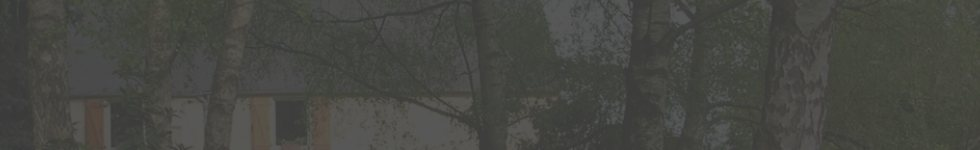
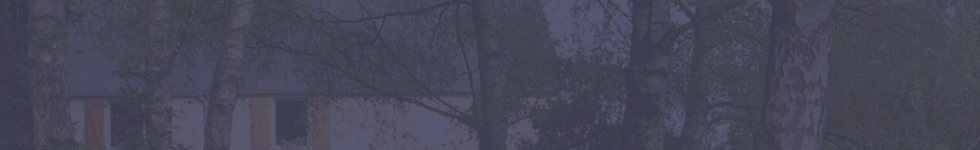
changement des couleurs du site

diff --git a/Symfony2/src/Gaudruere/GiteBundle/Resources/public/css/calendrier.css b/Symfony2/src/Gaudruere/GiteBundle/Resources/public/css/calendrier.css
@@ -27,13 +27,12 @@ border-radius: 10px 10px 0px 0px;
 }
 
 #content .calendrier-content .calendrierTitre {
-background: -moz-linear-gradient(top,#706F6F 28%,#3E3E3E);
-background: -webkit-gradient(linear, left top, left bottom,color-stop(0.28, #706F6F),to(#3E3E3E));
-background: -o-linear-gradient(top, #706F6F 28%, #3E3E3E); /* Opera 11.10+ */
-background: -ms-linear-gradient(top, #706F6F 28%,#3E3E3E); /* IE10+ */
-background: linear-gradient(top, #706F6F 28%, #3E3E3E); /* W3C */
-filter: progid:DXImageTransform.Microsoft.gradient( startColorstr='#706F6F', endColorstr='#3E3E3E',GradientType=0 ); /* IE6-7 + 9 */
--ms-filter: "progid:DXImageTransform.Microsoft.gradient(GradientType=0,startColorstr='#706F6F', endColorstr='#3E3E3E')"; /* IE8 */
+/* Permalink - use to edit and share this gradient: http://colorzilla.com/gradient-editor/#3a5677+4,3a5677+53,15589b+90&1+9,0.8+81 */
+background: -moz-linear-gradient(top, rgba(58,86,119,1) 4%, rgba(58,86,119,1) 9%, rgba(58,86,119,0.88) 53%, rgba(30,88,146,0.8) 81%, rgba(21,88,155,0.8) 90%); /* FF3.6-15 */
+background: -webkit-linear-gradient(top, rgba(58,86,119,1) 4%,rgba(58,86,119,1) 9%,rgba(58,86,119,0.88) 53%,rgba(30,88,146,0.8) 81%,rgba(21,88,155,0.8) 90%); /* Chrome10-25,Safari5.1-6 */
+background: linear-gradient(to bottom, rgba(58,86,119,1) 4%,rgba(58,86,119,1) 9%,rgba(58,86,119,0.88) 53%,rgba(30,88,146,0.8) 81%,rgba(21,88,155,0.8) 90%); /* W3C, IE10+, FF16+, Chrome26+, Opera12+, Safari7+ */
+filter: progid:DXImageTransform.Microsoft.gradient( startColorstr='#3a5677', endColorstr='#cc15589b',GradientType=0 ); /* IE6-9 */
+
 color: white;
 text-align: center;
 height: 26px;
@@ -53,7 +52,7 @@ border-right:1px solid #7890A8;
 /** CalendrierJourSemaine */
 #content .calendrier-content .calendrierSousTitre > * {
 display: inline-block;
-background: #CEC9AB;
+background: #E0E0E0;
 width: 30px;
 height: 20px; 
 text-align: center;
@@ -67,8 +66,7 @@ font-style: normal;
 }
 
 #content .calendrier-content .calendrierJourSemaineWeekEnd {
-background: #E8E8E8;
-color: #575757;
+background: #E0E0E0;
 } 
 
 #content .calendrier-content .calendrierBody {
@@ -93,7 +91,7 @@ user-select: none;
 }
 
 #content .calendrier-content .calendrierJourWeekEnd {
-background: #E5E1C7;
+background: #E8E8E8;
 }
 
 #content .calendrier-content .calendrierJourNonReserve {
@@ -157,13 +155,11 @@ border-radius: 0px 0px 10px 10px;
 
 #content .calendrier-content .calendrierFooterInner {
 height:100%;
-background: -moz-linear-gradient(top,#706F6F 28%,#3E3E3E);
-background: -webkit-gradient(linear, left top, left bottom,color-stop(0.28, #706F6F),to(#3E3E3E));
-background: -o-linear-gradient(top, #706F6F 28%, #3E3E3E); /* Opera 11.10+ */
-background: -ms-linear-gradient(top, #706F6F 28%,#3E3E3E); /* IE10+ */
-background: linear-gradient(top, #706F6F 28%, #3E3E3E); /* W3C */
-filter: progid:DXImageTransform.Microsoft.gradient( startColorstr='#706F6F', endColorstr='#3E3E3E',GradientType=0 );  /* IE6-8 + 9 */
--ms-filter: "progid:DXImageTransform.Microsoft.gradient(GradientType=0,startColorstr='#706F6F', endColorstr='#3E3E3E')"; /* IE8 */
+/* Permalink - use to edit and share this gradient: http://colorzilla.com/gradient-editor/#3a5677+4,3a5677+53,15589b+90&1+9,0.8+81 */
+background: -moz-linear-gradient(top, rgba(58,86,119,1) 4%, rgba(58,86,119,1) 9%, rgba(58,86,119,0.88) 53%, rgba(30,88,146,0.8) 81%, rgba(21,88,155,0.8) 90%); /* FF3.6-15 */
+background: -webkit-linear-gradient(top, rgba(58,86,119,1) 4%,rgba(58,86,119,1) 9%,rgba(58,86,119,0.88) 53%,rgba(30,88,146,0.8) 81%,rgba(21,88,155,0.8) 90%); /* Chrome10-25,Safari5.1-6 */
+background: linear-gradient(to bottom, rgba(58,86,119,1) 4%,rgba(58,86,119,1) 9%,rgba(58,86,119,0.88) 53%,rgba(30,88,146,0.8) 81%,rgba(21,88,155,0.8) 90%); /* W3C, IE10+, FF16+, Chrome26+, Opera12+, Safari7+ */
+filter: progid:DXImageTransform.Microsoft.gradient( startColorstr='#3a5677', endColorstr='#cc15589b',GradientType=0 ); /* IE6-9 */
 }
 
 #content .calendrier-content .legende {

diff --git a/Symfony2/src/Gaudruere/GiteBundle/Resources/public/css/gaudruere.css b/Symfony2/src/Gaudruere/GiteBundle/Resources/public/css/gaudruere.css
@@ -4,9 +4,9 @@
 }
 
 body {
-	background: url("bg_body.gif") repeat scroll 0 0 #E0DBBA;
-	color: #777777;
-	font: 14px "Verdana", Helvetica, Arial, sans-serif;
+	background: url("bg_body.gif") repeat scroll 0 0 #DDD;
+	color: #6c6c7f;
+	font: 13px "Verdana", Helvetica, Arial, sans-serif;
 }
 
 /*
@@ -16,7 +16,7 @@ img {
 */
 
 #bandeau {
-	background: url("bg_header.gif") repeat scroll 0 150px transparent;
+	background-color: #3a5677;
 	height: 150px;
 	width: 100%;
 }
@@ -59,7 +59,7 @@ z-index: 1000;
 }
 /* Content */
 #content {  
-background-color: #E5E1C7;    
+background-color: #FAFAFA;    
 width: 980px;
 min-height: 450px;
 }
@@ -69,28 +69,35 @@ background: url("bg_content.png") repeat-y scroll 0 0 transparent;
 min-height: 450px;
 }
 
+.doublepagereservation {
+background: url("bg_content_reservation.png") repeat-y scroll 0 0 transparent;
+min-height: 450px;
+}
 
 /* Bas-de-page */
 #footer {
-background: url("bg_menu.png") repeat scroll 0 0 transparent;
+aabackground: url("bg_menu.png") repeat scroll 0 0 transparent;
+background-color:#3a5677;
 height: 80px;
 width: 978px;
 border: 1px solid #808080;
 }
 #footer #remerciementfooter {
-color: #E5E1C7;
-font-size: 0.9em;
+color: #D0D0D0;
+font-size: 1em;
 margin: 0;
 text-align: center;
 text-decoration: none;
 width:100%;
 float:right;
 display:inline;
+text-align: right;
+margin: 0 21px 0 0;
 }
 #footer #titrefooter {
-color: #E18B14;
+color: #EAEAEA;
 font-size: 2.2em;
-margin: 13px 20px 0 0;
+margin: 9px 16px 0 0;;
 text-align: right;
 text-decoration: none;
 width:75%;
@@ -108,7 +115,7 @@ display:inline;
 }
 #footer #contactfooter a {
 font-size: 1.1em;
-color: #FFFFFF;
-border-bottom:3px solid #FFFFFF; 
+color: #EAEAEA;
+border-bottom:3px solid #EAEAEA;
 text-decoration: none;
 }

diff --git a/Symfony2/src/Gaudruere/GiteBundle/Resources/public/css/article.css b/Symfony2/src/Gaudruere/GiteBundle/Resources/public/css/article.css
@@ -1,12 +1,13 @@
 #content .article-content {
 display: inline-block;
 height: 100%;
-width: 69%;
+width: 77%;
 vertical-align: top;
 }
 #content .article-content h2 {
 border-bottom: 5px solid;
 margin: 10px 0 20px;
+color: #50507f;
 }
 #content .article-content p {
 margin: 0.5em;
@@ -47,25 +48,25 @@ padding-left: 30px;
 display: inline-block;
 height: 100%;
 margin: 0;
-width:30%;
+width:22%;
 vertical-align: top;
 }
 #content .article-navigation ul {
 list-style: none;
 margin:0;
-padding: 20px;
-width: 253px;
+padding: 2px;
+width: 200px;
 }
 #content .article-navigation li {
-margin: 0 5px 10px;   
+margin: 0 10px 0px;
 width: auto;
 position:relative;
 background:transparent; 
 }
 
 #content .article-navigation li a {
-color: #000;
-font-size: 1.1em;
+color: #50507f;
+font-size: 1em;
 font-weight: bold;
 line-height: 2;
 padding: 12px 15px;
@@ -75,9 +76,10 @@ padding: 12px 15px;
 text-decoration: none;
 }
 #content ul li a:hover, #content  ul li a.active:hover  {
-background:#DBD4AF;
+background:#dcdee8;
 }
 #content .doublepage .article-content div {
 clear: both;
 padding-top: 10px;
+padding-bottom: 10px;
 }

diff --git a/Symfony2/src/Gaudruere/GiteBundle/Resources/public/css/reservation.css b/Symfony2/src/Gaudruere/GiteBundle/Resources/public/css/reservation.css
@@ -9,7 +9,7 @@ vertical-align: top;
 font-weight:bold;
 }
 #content .reservation-navigation h2 {
-color: #6B6565;
+color: #50507f;
 font-weight: bold;
 padding: 6px 10px 30px;
 text-align: center;
@@ -28,7 +28,7 @@ vertical-align: -2px;
 
 #content .reservation-navigation .ui-state-default
 {
-	background: #E18B14;
+	background: #6E6E6E;
 }
 
 #content .reservation-navigation .ui-slider .ui-slider-handle
@@ -52,6 +52,7 @@ vertical-align: -2px;
 
 #formResa {
 	padding: 0px 5px 0px;	
+	color: #50507f
 }
 
 .ui-datepicker
@@ -151,7 +152,7 @@ display: inline-block;
 
 #content .reservation-navigation #formResa .ligneBtnReserver
 {
-	margin-left: 72px;
+	margin-left: 0px;
 	text-align: center;
 	margin-top: 20px;
 	margin-bottom: 20px;	
@@ -163,10 +164,11 @@ display: inline-block;
     border-style: solid;
     border-width: 1px;
     cursor: pointer;
-    font-size: 10px;
+    font-size: 13px;
     font-weight: bold;
     padding: 7px;
     width: auto;	
+    color: #50507f;
 }
 
 #content .reservation-navigation #formResa #labelConflitDates

diff --git a/Symfony2/src/Gaudruere/GiteBundle/Resources/public/css/menu.css b/Symfony2/src/Gaudruere/GiteBundle/Resources/public/css/menu.css
@@ -10,10 +10,16 @@ z-index: 900;
 text-decoration: none;
 }
 #menu ul li a:hover, #menu  ul li a.active:hover  {
-background:#E5AC62;
+background:#D0D0D0;
+color:#50507f;
 }
 .menuactif   {
-background:#E29938 !important;
+background:#D0D0D0 !important;
+}
+
+.menureservation:hover   {
+background:#D0D0D0 !important;
+color:#50507f !important;
 }
 .menureservation   {
 background:#D12B19 !important;
@@ -53,13 +59,15 @@ width:100%;
 background: url("bg_menu.png") repeat scroll 0 0 transparent;
 }
 #menu .navigation li ul li a {
-color:#fff;
+color:#EAEAEA;
 display:block;
 font-weight:bold;
-padding:10px 20px; } 
+padding:10px 20px; 
+font-size: 0.9em;
+} 
 
 #menu .navigation li a {
-color: #FFFFFF;
+color: #EAEAEA;
 display: block;
 font-size: 1.1em;
 font-weight: bold;

diff --git a/Symfony2/src/Gaudruere/GiteBundle/Resources/public/css/contact.css b/Symfony2/src/Gaudruere/GiteBundle/Resources/public/css/contact.css
@@ -2,7 +2,7 @@
 display: inline-block;
 height: 100%;
 margin: 0;
-width:30%;
+width:21%;
 vertical-align: top;
 }
 #content .contact-navigation > * {
@@ -12,7 +12,7 @@ padding: 2px 15px 1px;
 color: #6B6565;
 font-weight: bold;
 line-height: 1.1em;
-padding: 6px 10px 30px;
+padding: 10px 2px 30px;
 text-align: center;
 }
 #content .contact-navigation label {
@@ -47,8 +47,9 @@ zoom: 1;
 display: inline;
 display: inline-block;
 height: 100%;
-width: 69%;
+width: 77%;
 vertical-align: top;
+padding-top: 10px;
 }
 #content .contact-content h2 {
 border-bottom: 5px solid;

diff --git a/Symfony2/src/Gaudruere/GiteBundle/Resources/public/css/acces.css b/Symfony2/src/Gaudruere/GiteBundle/Resources/public/css/acces.css
@@ -10,8 +10,9 @@ border: 10px solid white;
 display: inline-block;
 height: 100%;
 margin: 0;
-width: 30%;
+width: 22%;
 vertical-align: top;
+color: #50507f;
 }
 #content .acces-navigation > * {
 padding: 2px 15px 1px;
@@ -23,11 +24,14 @@ font-size: 1.1em;
 #content .acces-navigation ul {
 margin-left : 12px;
 }
-
+#content .acces-content ul
+{
+	margin-left:20px;
+}
 #content .acces-content {
 display: inline-block;
 height: 100%;
-width: 69%;
+width: 77%;
 vertical-align: top;
 }
 #content .acces-content h2 {

diff --git a/Symfony2/src/Gaudruere/GiteBundle/Resources/public/css/articles.css b/Symfony2/src/Gaudruere/GiteBundle/Resources/public/css/articles.css
@@ -24,7 +24,7 @@ border: 0;
 }
 
 .article p {     
-color: #2B2B2B;
+color: #50507f;
 float: left;
 bottom: 0;
 display: inline;
@@ -46,8 +46,8 @@ padding: 0;
 margin: 0;
 }
 #content p {    
-font-size:1.2em;
-padding: 10px;
+font-size:1.1em;
+padding: 25px 10px;
 }
 #content div.doublepage div.article-content div ul {    
 padding-left: 40px;
